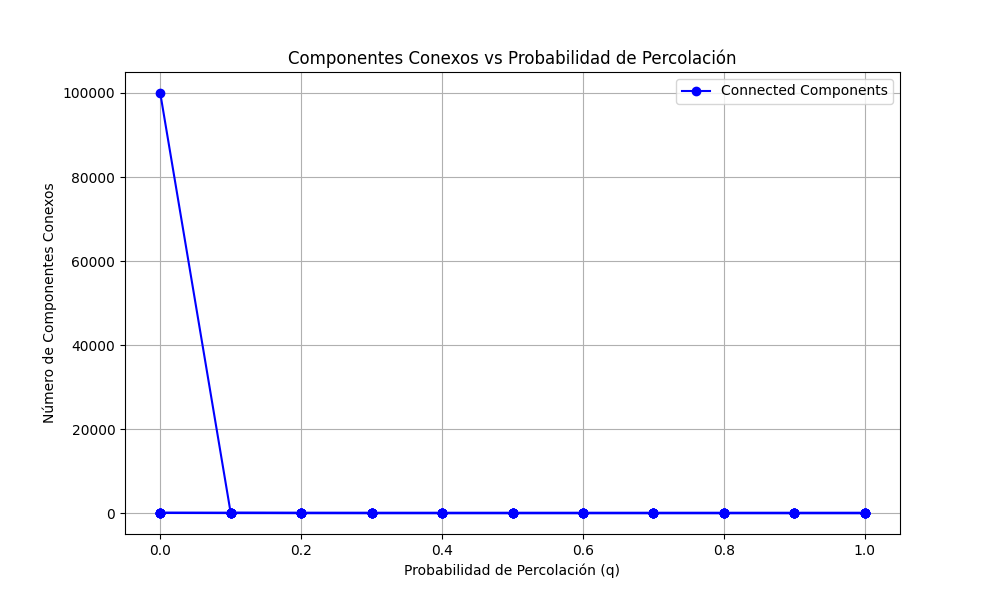
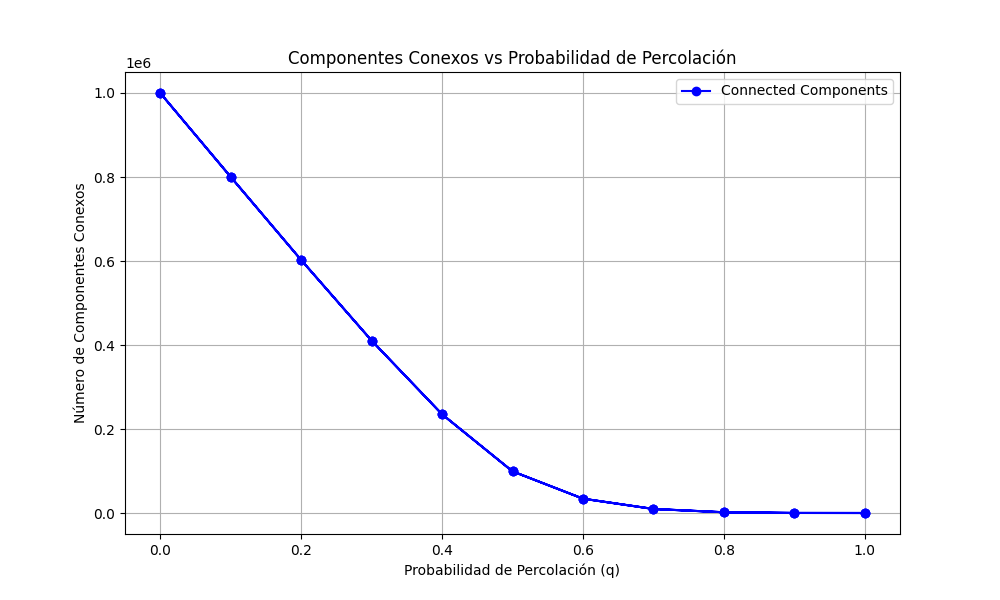
Corregido run_code.py

diff --git a/run_code.py b/run_code.py
@@ -11,6 +11,7 @@ def run_percolation_program(executable, dimacs_file, percolation_type, step):
         text=True,
         capture_output=True
     )
+    print(result.stdout)
 
     # Check for errors
     if result.returncode != 0:
@@ -62,13 +63,12 @@ def plot_results(filename):
 
 # Parameters for the program execution
 executable = "./programa"  # Update this with the path to your executable
-dimacs_file = "geom.dimacs"
+dimacs_file = "malla_cuadrada.dimacs"
 percolation_type = 1  # 1 for Bond Percolation, 2 for Site Percolation
 step = 0.1
 
 # Run the C++ program and collect results
 results = run_percolation_program(executable, dimacs_file, percolation_type, step)
-
 # Save to Excel if results were obtained
 if results:
     save_results_to_excel(results, "resultados_percolacion.xlsx")
